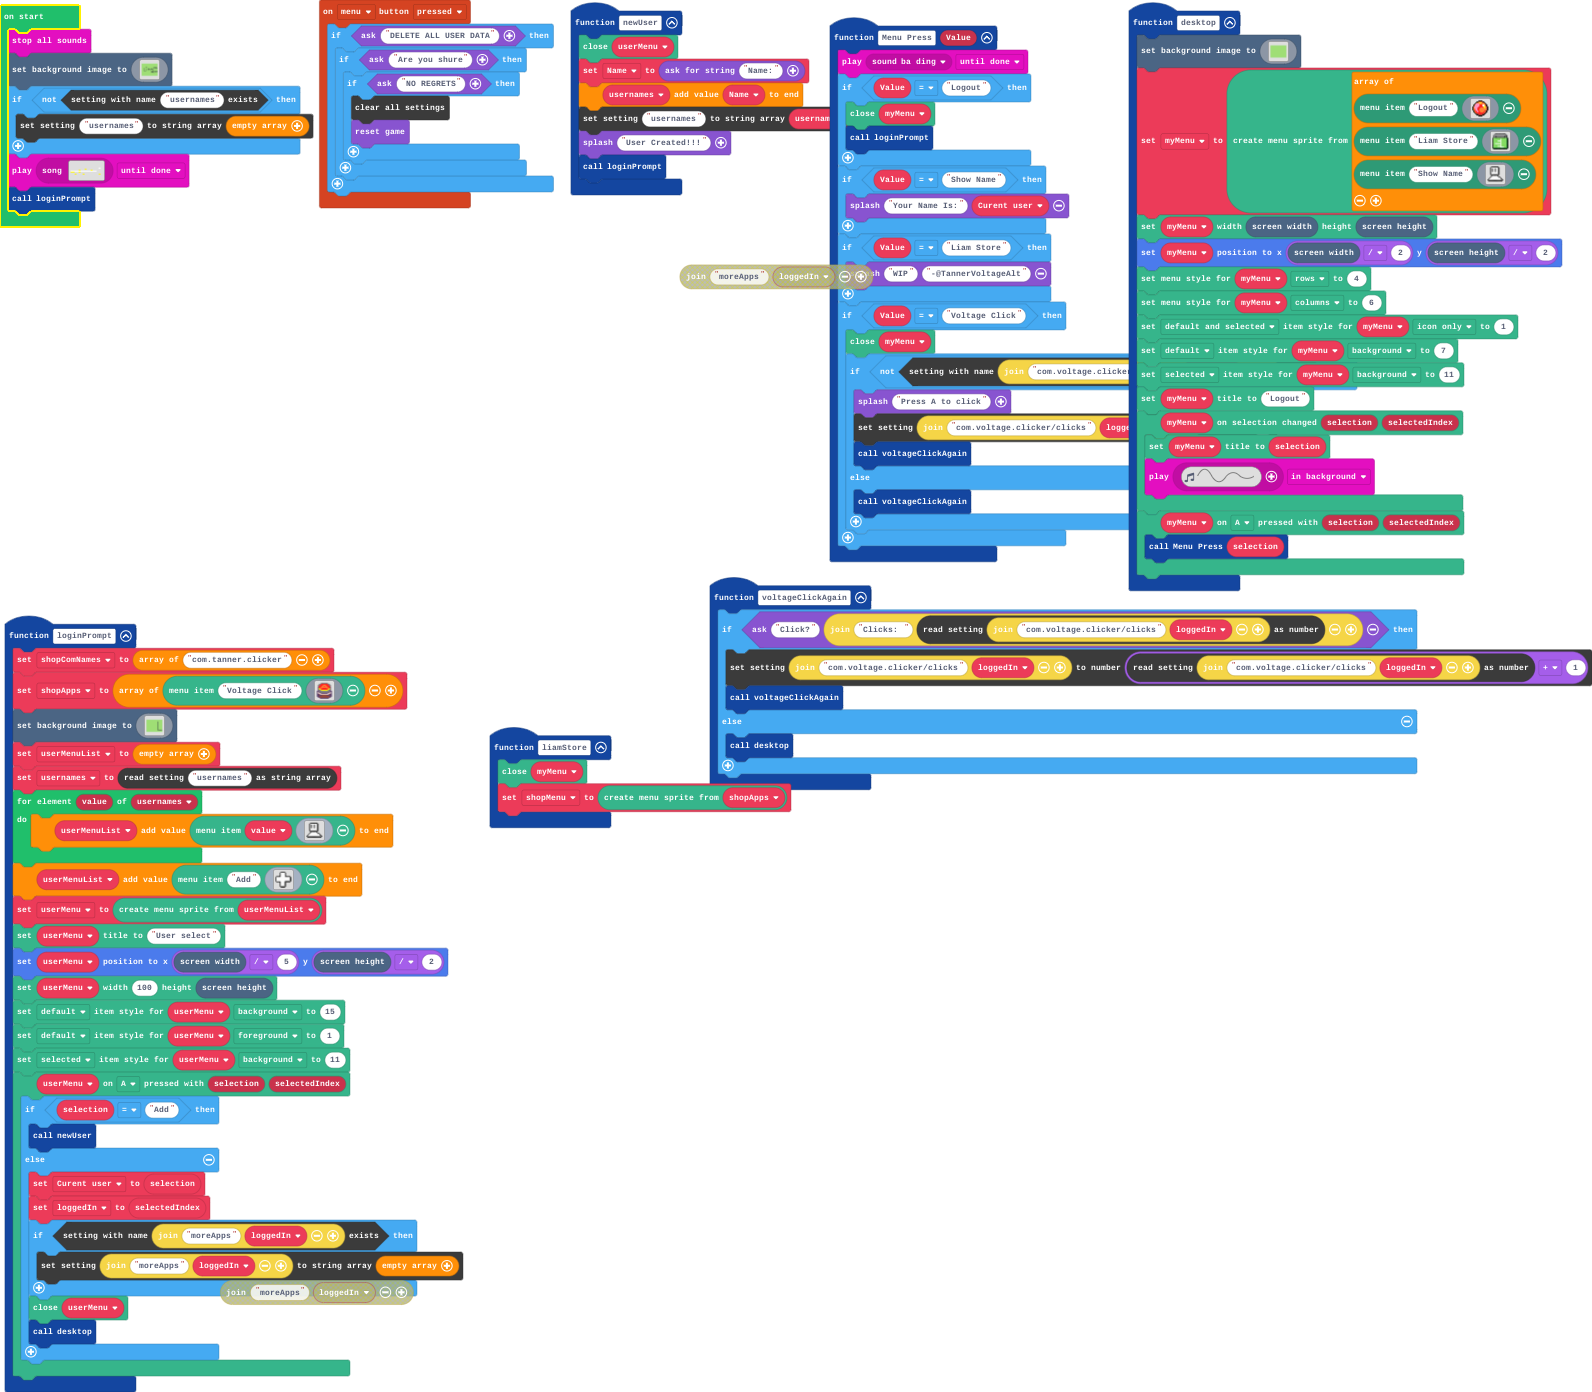
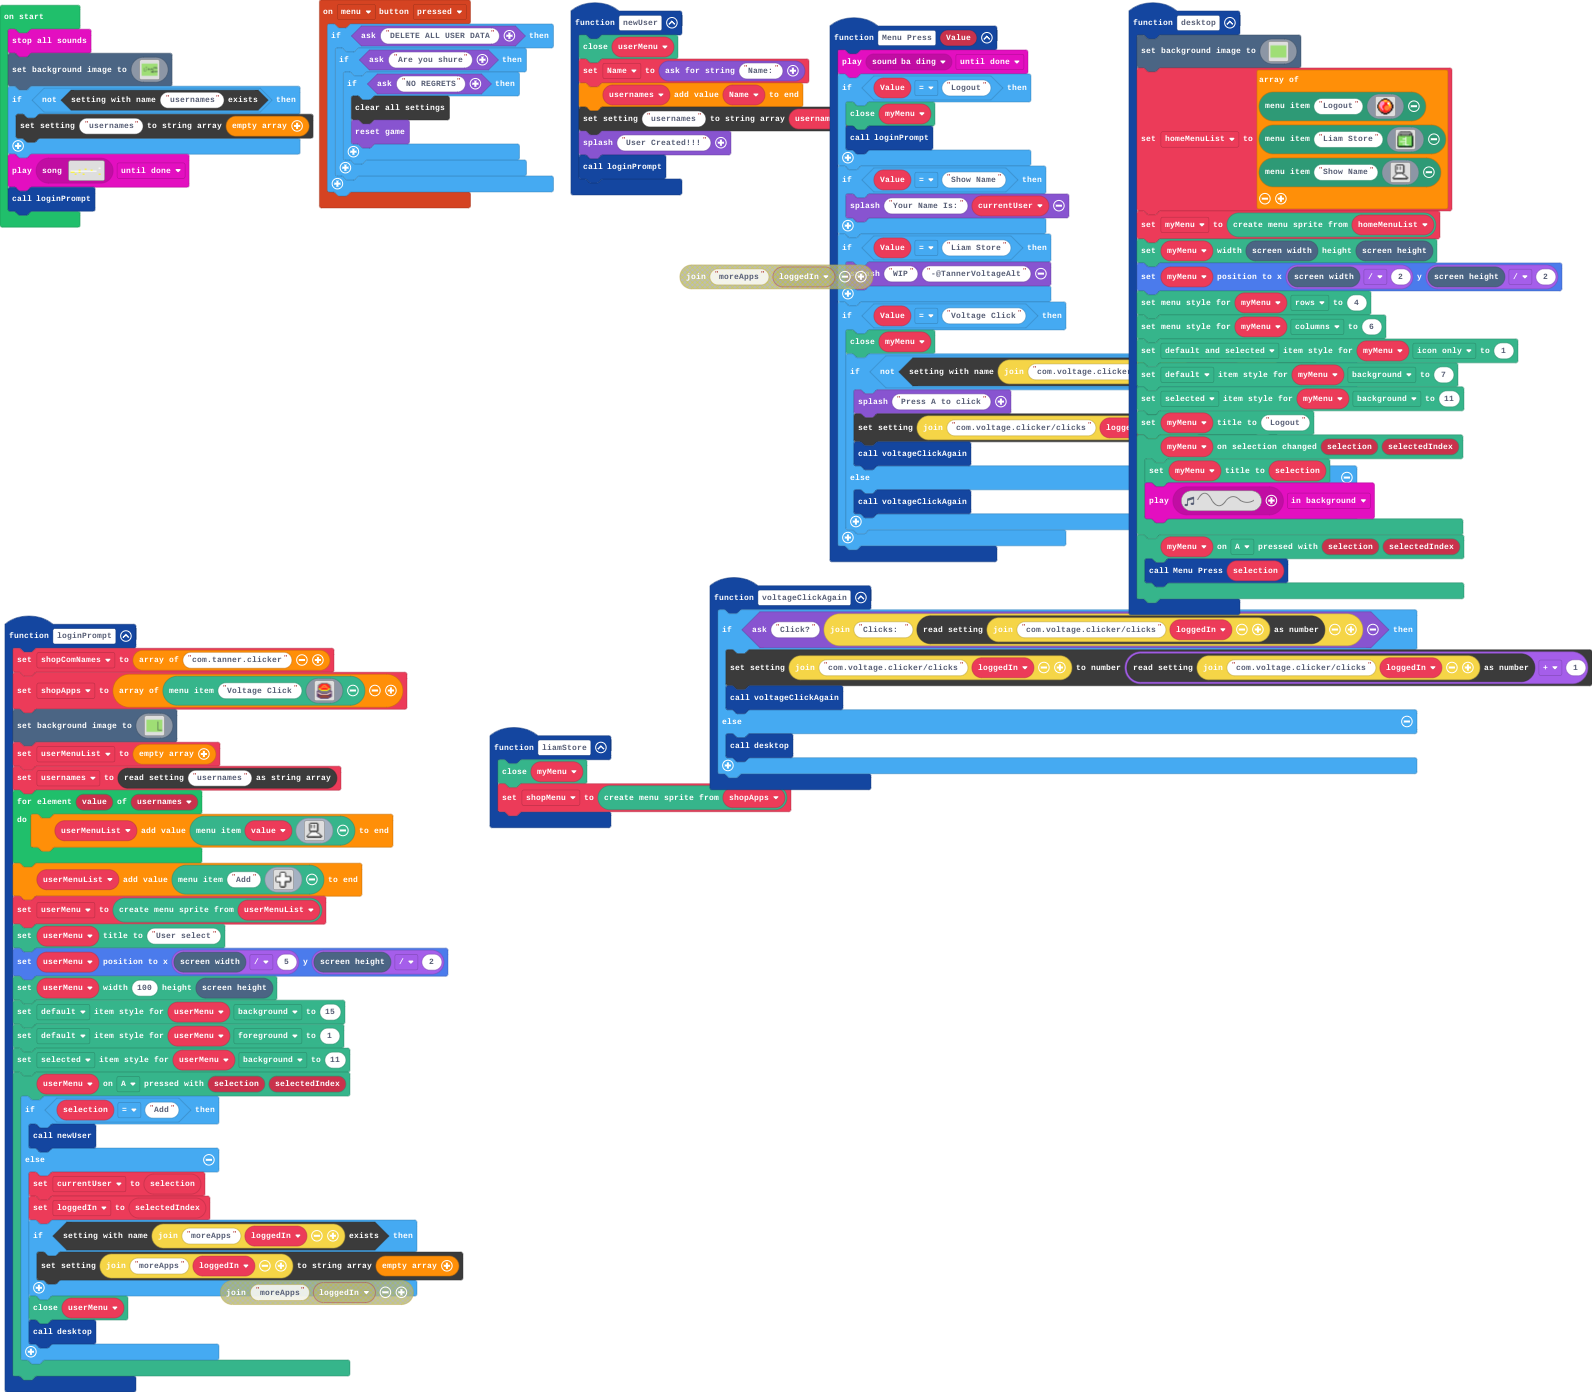
Update main.blocks, main.ts

Changed region(s): [[0.7079, 0.0309, 0.9849, 0.4634], [0.4617, 0.556, 0.4925, 0.5869], [0.0, 0.0, 0.0308, 0.0309]]

diff --git a/main.ts b/main.ts
@@ -73,7 +73,7 @@ function loginPrompt () {
         if (selection == "Add") {
             newUser()
         } else {
-            Curent_user = selection
+            currentUser = selection
             loggedIn = selectedIndex
             if (blockSettings.exists("moreApps" + loggedIn)) {
                 blockSettings.writeStringArray("moreApps" + loggedIn, [])
@@ -85,7 +85,7 @@ function loginPrompt () {
 }
 function desktop () {
     scene.setBackgroundImage(assets.image`Green`)
-    myMenu = miniMenu.createMenuFromArray([
+    homeMenuList = [
     miniMenu.createMenuItem("Logout", assets.image`log out`),
     miniMenu.createMenuItem("Liam Store", img`
         ...ffffffffffff...
@@ -126,7 +126,8 @@ function desktop () {
         . f f f f f f f f f f f f f f f . 
         . . . . . . . . . . . . . . . . . 
         `)
-    ])
+    ]
+    myMenu = miniMenu.createMenuFromArray(homeMenuList)
     myMenu.setDimensions(scene.screenWidth(), scene.screenHeight())
     myMenu.setPosition(scene.screenWidth() / 2, scene.screenHeight() / 2)
     myMenu.setMenuStyleProperty(miniMenu.MenuStyleProperty.Rows, 4)
@@ -180,7 +181,7 @@ function Menu_Press (Value: string) {
         loginPrompt()
     }
     if (Value == "Show Name") {
-        game.splash("Your Name Is:", Curent_user)
+        game.splash("Your Name Is:", currentUser)
     }
     if (Value == "Liam Store") {
         game.splash("WIP", "-@TannerVoltageAlt")
@@ -199,8 +200,9 @@ function Menu_Press (Value: string) {
 let shopMenu: miniMenu.MenuSprite = null
 let Name = ""
 let myMenu: miniMenu.MenuSprite = null
+let homeMenuList: miniMenu.MenuItem[] = []
 let loggedIn = 0
-let Curent_user = ""
+let currentUser = ""
 let userMenu: miniMenu.MenuSprite = null
 let usernames: string[] = []
 let userMenuList: miniMenu.MenuItem[] = []
